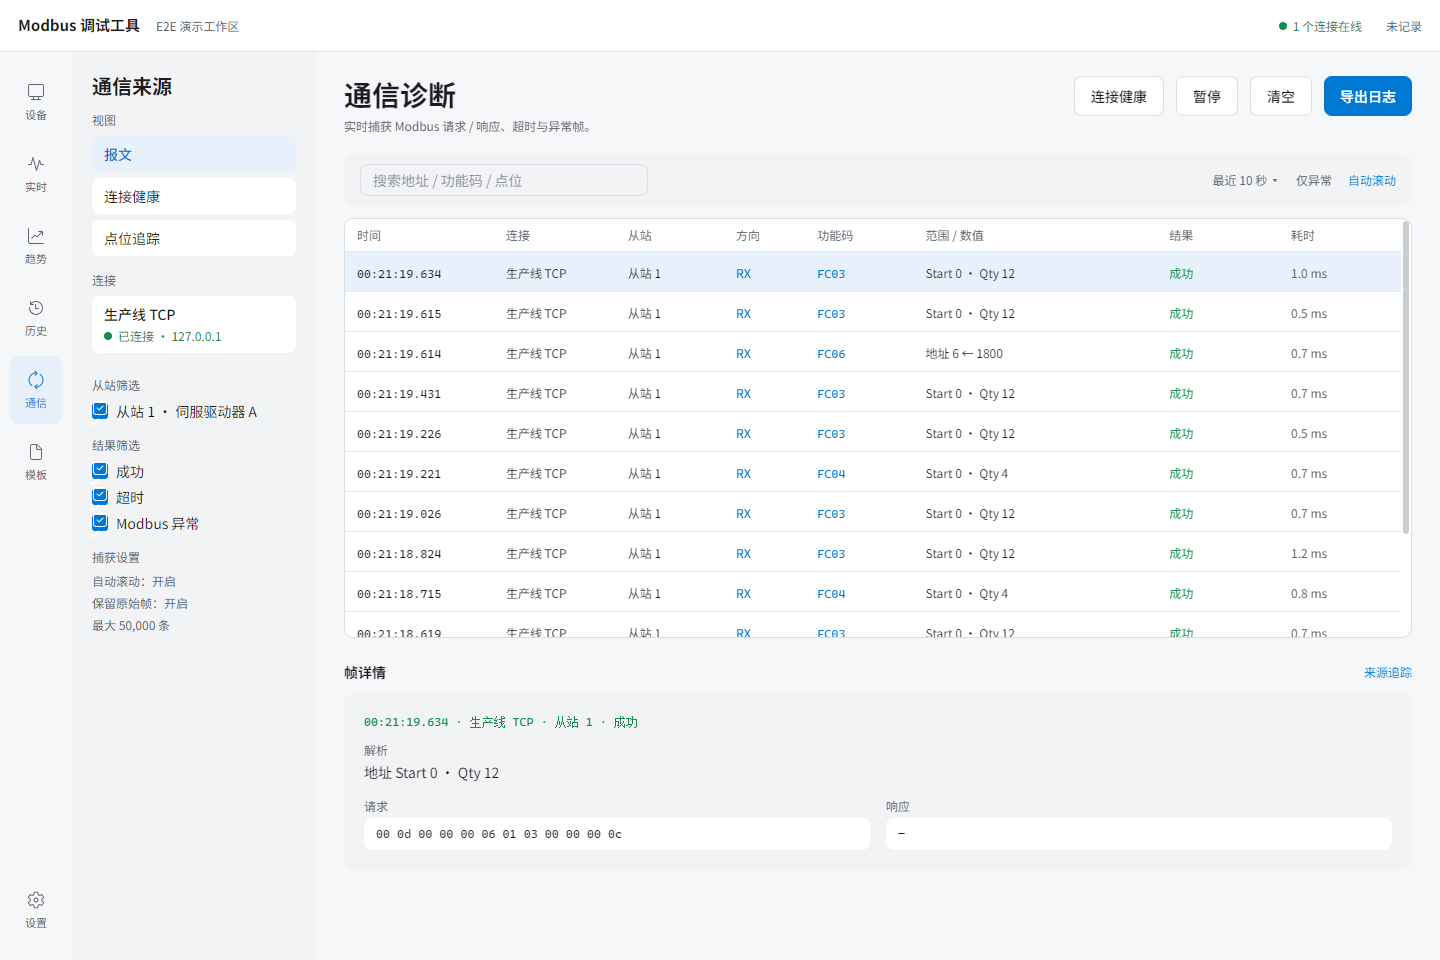
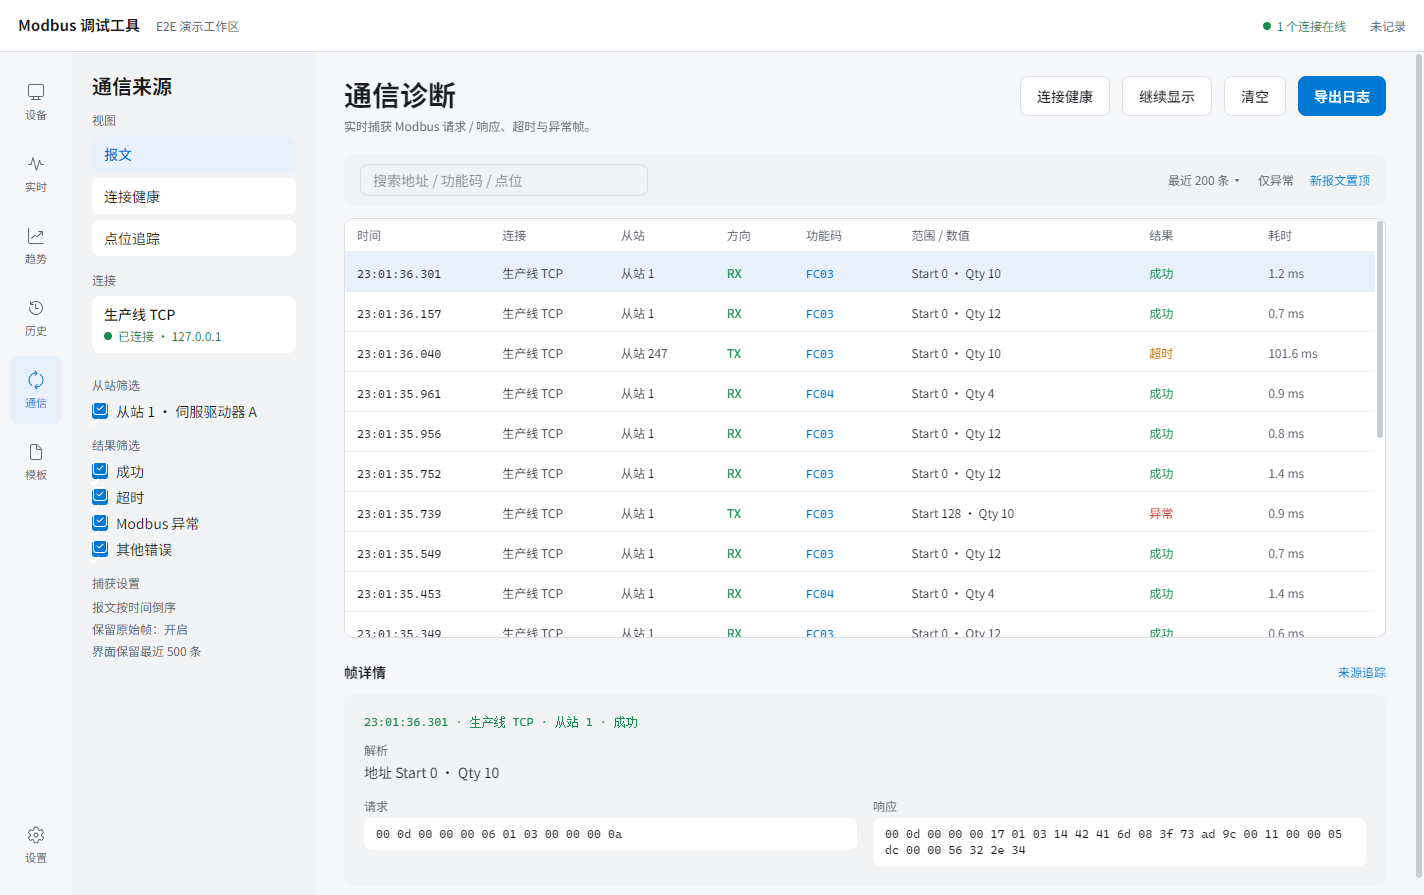
docs: update simulator and display usage guide

diff --git a/README.md b/README.md
@@ -52,10 +52,20 @@ npm start
 
 ```powershell
 python -m pip install -r tools/simulator/requirements.txt
-npm run simulator -- --port 50535
+npm run simulator -- --transport tcp --host 127.0.0.1 --port 50535 --units 1,2,3
 ```
 
 保持该终端运行。模拟器提供 `127.0.0.1:50535` 上的 Unit 1、2、3，以及会变化的电压、电流、温度等数据。
+
+也可通过虚拟串口对进行 RTU 联调。例如本机串口对为 COM1 ↔ COM2 时：
+
+```powershell
+npm run simulator -- --transport rtu --serial-port COM2 --baudrate 115200 --parity N --stopbits 1 --units 1,2,3
+```
+
+模拟器使用 COM2，上位机新建 RTU 连接使用 COM1，并设置为 115200 / 8N1。端口号只是示例，换机器时按实际配对修改；脚本不写死 COM 号，RTU 必须指定 `--serial-port`。下方示例工作区预设的是 TCP，RTU 联调需在软件中另建连接并绑定模板。
+
+模拟器覆盖工具支持的 FC01/02/03/04/05/06/15/16，各 Unit 的数据独立。静态数据和超时、异常、延迟、坏 CRC 等故障注入参数见[模拟器说明](tools/simulator/README.md)。
 
 本仓库提供可以直接打开的[示例工作区](docs/examples/demo.workspace.json)，其中已配置连接、从站、模板和趋势组。先复制一份，避免自动保存修改仓库中的示例：
 
@@ -182,13 +192,29 @@ release/
 
 ### 6. 观察趋势与开始记录
 
-1. 在实时表选择关心的点位，点击 **加入趋势组**；也可以进入 **趋势**创建趋势组并添加信号。
+1. 进入 **趋势**创建趋势组并添加信号；已有趋势组时，也可在实时表选择关心的点位，点击 **加入趋势组**。
 2. 在趋势组的 **信号**页管理信号，在 **图表**页观察曲线和状态变化。
 3. 需要保存过程时，点击 **开始记录**；采集结束后点击 **停止记录**。
 
-![趋势图表与记录入口](docs/images/trend.png)
+![9个混合信号按单位分图，其他图表可继续向下滚动查看](docs/images/trend.png)
 
 数值信号用折线，Bool 用数字波形，Enum 用状态段，String 用变化事件。图表显示/隐藏只影响展示，记录范围仍是趋势组的全部信号。趋势复用后台读取的数据，不会额外建立一套设备轮询。
+
+**分轴依据是单位，不是信号个数。** 请在点位配置中一致填写单位，例如 `V`、`A`、`rpm`：
+
+| 数值信号的单位种类 | 图表显示 |
+| --- | --- |
+| 1 种 | 多个信号共用一条纵轴 |
+| 2 种 | 同一图表使用左右两条纵轴，同单位信号共用刻度 |
+| 超过 2 种 | 按单位拆成多个图表，可上下滚动查看；每组保留该单位的全部信号 |
+
+例如 12 个数值信号分属 4 种单位，会显示 4 个图表；未填写单位的数值信号归为同一组。Bool、Enum、String 显示在状态轨道中，不占用数值纵轴。
+
+可选择最近 30 秒、60 秒或 5 分钟。**暂停**冻结当前显示窗口，**继续**在自动跟随开启时恢复追踪最新数据；关闭 **自动跟随**也可固定窗口。暂停显示不会停止设备轮询或正在进行的记录，停止保存需点击 **停止记录**。
+
+String 轨道显示初始状态及后续变化。0.9.1 起，相同初始值与首条记录不会重复叠字；事件密集时会避让文字，长内容用省略号表示，悬停事件点可查看完整值。
+
+![String 轨道的初始状态只显示一次，时间为会话相对时长](docs/images/string-track.png)
 
 > 不点击“开始记录”，实时数据不会默认长期保存。两次轮询之间发生并恢复的瞬态，也不保证被采集到。
 
@@ -198,15 +224,30 @@ release/
 
 ![已结束记录会话的历史趋势](docs/images/history.png)
 
-当前 **导出 CSV** 会把 CSV 文本复制到剪贴板，可粘贴到表格或文本文件中保存。
+可按日期范围、趋势组和从站名称筛选左侧会话列表，点击 **清除筛选**恢复显示。**添加备注**可保存会话备注，保存后在状态与事件中查看。当前 **导出 CSV** 会把 CSV 文本复制到剪贴板，可粘贴到表格或文本文件中保存。
 
 **通信：**进入 **通信**并选择连接，查看请求/响应事务，点击一行展开详细信息和原始报文。通过 **连接健康**查看请求率、耗时和错误统计；通过点位追踪检查事务来源。
 
 ![通信事务、原始报文及诊断入口](docs/images/communication.png)
 
+侧栏 **结果筛选**可组合勾选：
+
+| 筛选项 | 对应的事务结果 |
+| --- | --- |
+| 成功 | 收到有效的正常响应 |
+| 超时 | 未在超时范围内收到有效匹配响应 |
+| Modbus 异常 | 设备返回合法异常响应，例如 `0x02` 非法地址 |
+| 其他错误（0.9.1 起） | CRC、格式、传输错误或意外响应等其他事务结果 |
+
+结果筛选可与从站筛选、搜索组合使用；全部取消勾选时事务列表为空。**仅异常**会进一步排除成功事务，仍受侧栏筛选限制。下方的帧解析错误记录单独展示，不受事务结果筛选控制。
+
+点击 **暂停**固定当前事务列表，**继续显示**恢复更新；设备通信仍会继续。**清空**清除内存诊断记录，**导出日志**将当前筛选的事务文本复制到剪贴板。
+
 ### 8. 保存工作区和管理文件
 
 在 **设置 → 另存为** 保存 `.workspace.json`；确定文件位置后，配置修改会自动保存。**导入工作区**用于打开已有文件，**导出工作区**将 JSON 文本复制到剪贴板。
+
+在 **设置 → 显示 → 时区**中选择跟随系统、UTC 或指定地区。绝对时间会按所选时区显示，例如同一报文的 UTC 时间为 08:00:00 时，在上海显示为 16:00:00；存储的 UTC 时间戳不变。历史回放轴和状态轨道上的 `00:00:00` 表示从会话开始计算的相对时长，不随时区改变。
 
 默认存储根目录是程序所在目录；Portable 使用外层 EXE 所在目录，源码开发模式使用项目目录：
 
@@ -240,10 +281,10 @@ release/
 | 读到数值但明显不对 | 核对数据类型、字节/字序、偏移、寄存器数量及缩放参数 |
 | 修改模板影响了另一台设备 | 两个从站可能绑定了同一模板；设备定义不同请复制模板 |
 | 历史列表为空 | 先在趋势组开始并停止一次记录，确认设置页显示的是预期数据库 |
+| 修改时区后回放的 `00:00:00` 没变化 | 这是会话相对时长；会话开始时间、报文时间等绝对时间才随时区转换 |
+| 多个信号没有共用纵轴 | 检查点位的单位字段是否一致；超过两种单位会分图显示 |
 | 下载的版本与截图不同 | README 与主分支同步；查看下载版本号，需要新功能时获取最新成功 Actions 构建 |
 
 提交问题时，请附上版本号、RTU/TCP 类型、复现步骤、异常提示和必要的通信记录；可先移除设备地址、名称等不希望公开的信息。
 
 开发实现与验证命令：[开发说明](docs/development.md) · [架构](docs/architecture.md) · [协议说明](docs/protocol/01-application-protocol.md)。
-
-RTU 虚拟串口与 TCP 从站联调、命令参数和故障注入详见 [模拟器说明](tools/simulator/README.md)。
